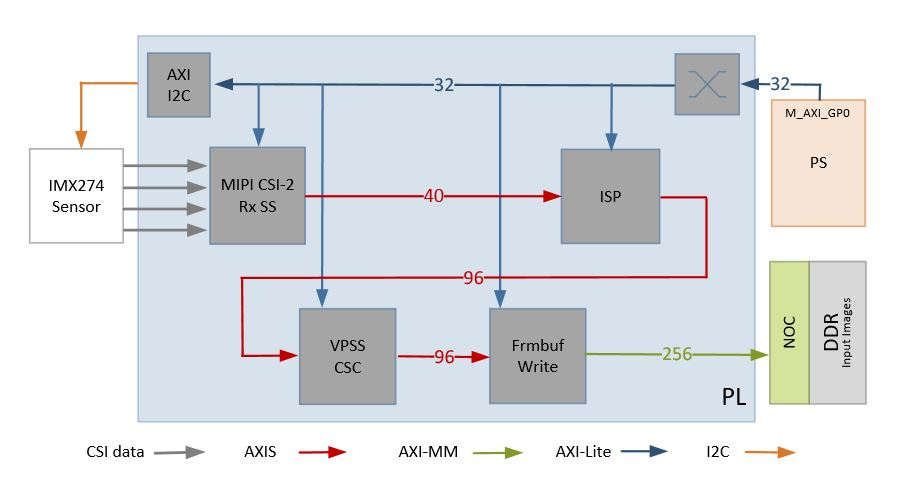
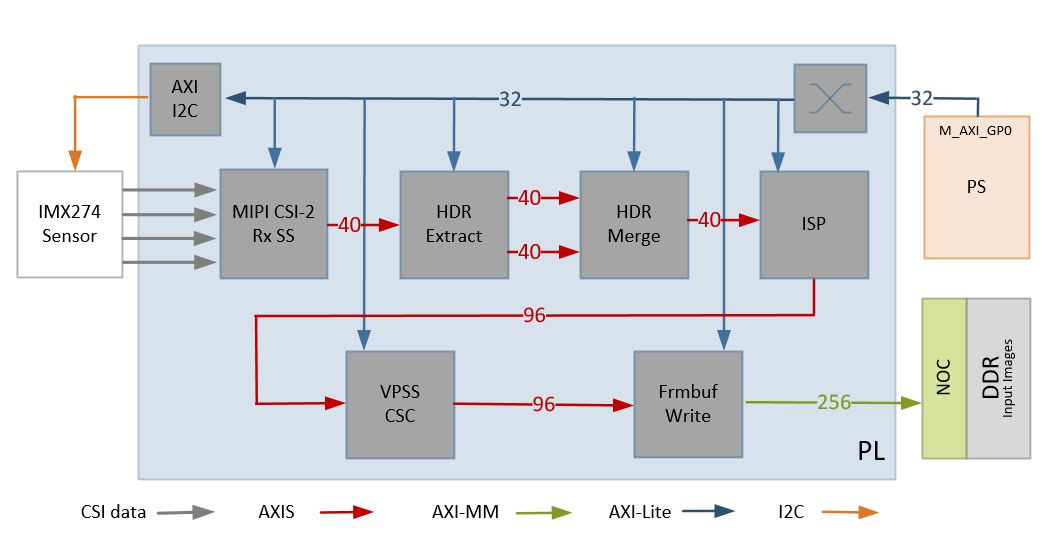
vck190_mipiRxSingle: Updated HW arch with details on HDR pipeline

Changed region(s): [[0.0311, 0.0616, 0.9956, 0.8624], [0.0622, 0.8624, 0.9022, 0.9548], [0.0311, 0.308, 0.0622, 0.3388]]

diff --git a/docs/source/arch/arch-hw.rst b/docs/source/arch/arch-hw.rst
@@ -82,6 +82,15 @@ register interface.
   RAW10 format and outputs AXI4-Stream video data. For more information see the MIPI
   CSI-2 Receiver Subsystem Product Guide (`PG232 <https://www.xilinx.com/support/documentation/ip_documentation/mipi_csi2_rx_subsystem/v5_0/pg232-mipi-csi2-rx.pdf>`_).
 
+* The HDR extract block takes single digital overlapped frame from the sensor as input 
+  and returns two output exposure frames - Short Exposure Frame and a Long Exposure Frame
+
+* Creating High Dynamic Range images requires at least two frames that are captured with 
+  different exposure times. HDR Merge module will generate the HDR frame with these varied 
+  exposure frames. HDR Merge in RGB domain is complex and expensive in terms of latency, 
+  because of camera response function. Hence the current module works in Bayer domain.
+  For information on this function refer to `Vitis Vision Libraries HDR Merge <https://xilinx.github.io/Vitis_Libraries/vision/2022.1/api-reference.html#hdr-merge>`_.
+
 
 * The Image Single Processing IP is available in the Vitis Vision librarires
   (https://github.com/Xilinx/Vitis_Libraries/tree/master/vision/L1).The IP receives the
@@ -115,7 +124,8 @@ register interface.
   resolution changes.
 
 All the IPs in this pipeline are configured to transport 4ppc @ 150 MHz, enabling up to
-3840x2160 resolution at 60 frames per second (fps).
+3840x2160 resolution at 30 HDR frames per second (fps). Each HDR frame is a composite
+of a long exposure frame and a short exposure frame, so effective frame rate is 60fps.
 
 * Time to transfer one frame: (3840 + 560) x (2160 + 90) / (150 MHz * 4ppc) = 0.0165 ms
 * Number of frames transferred per second = 1/0.0165 = 60 frames
@@ -128,7 +138,7 @@ the AXI-Lite interface of the IPs at run-time. The drivers for the above blocks 
 APIs to set these values in a user application.
 
 * For the pass-through design (no accelerator) user can choose between 720p60, 1080p60,
-  2160p30, and 2160p60.
+  and 2160p30.
 
 Quad Sensor MIPI Capture
 ^^^^^^^^^^^^^^^^^^^^^^^^
